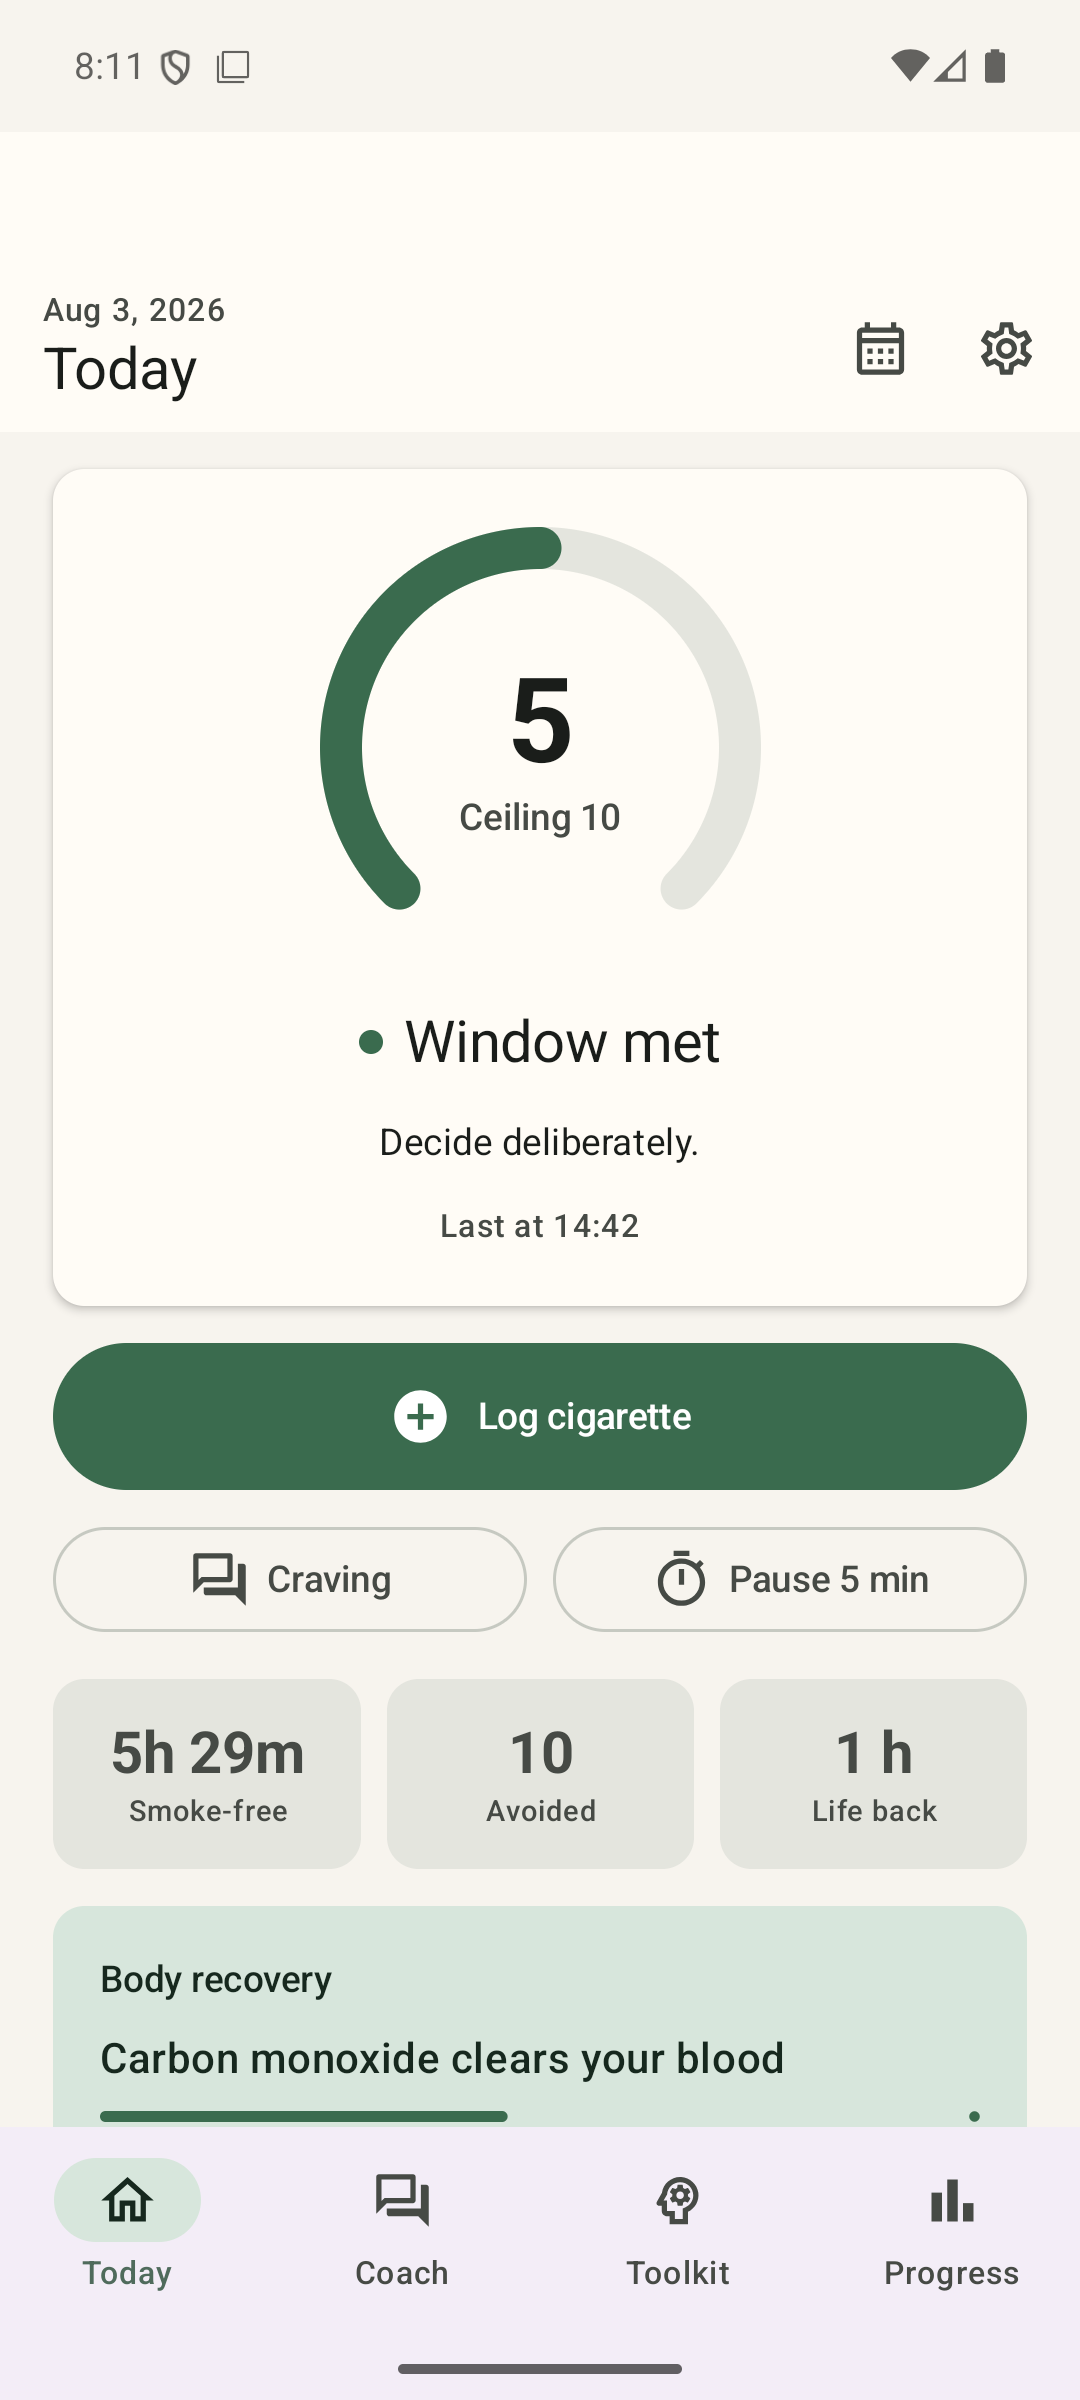
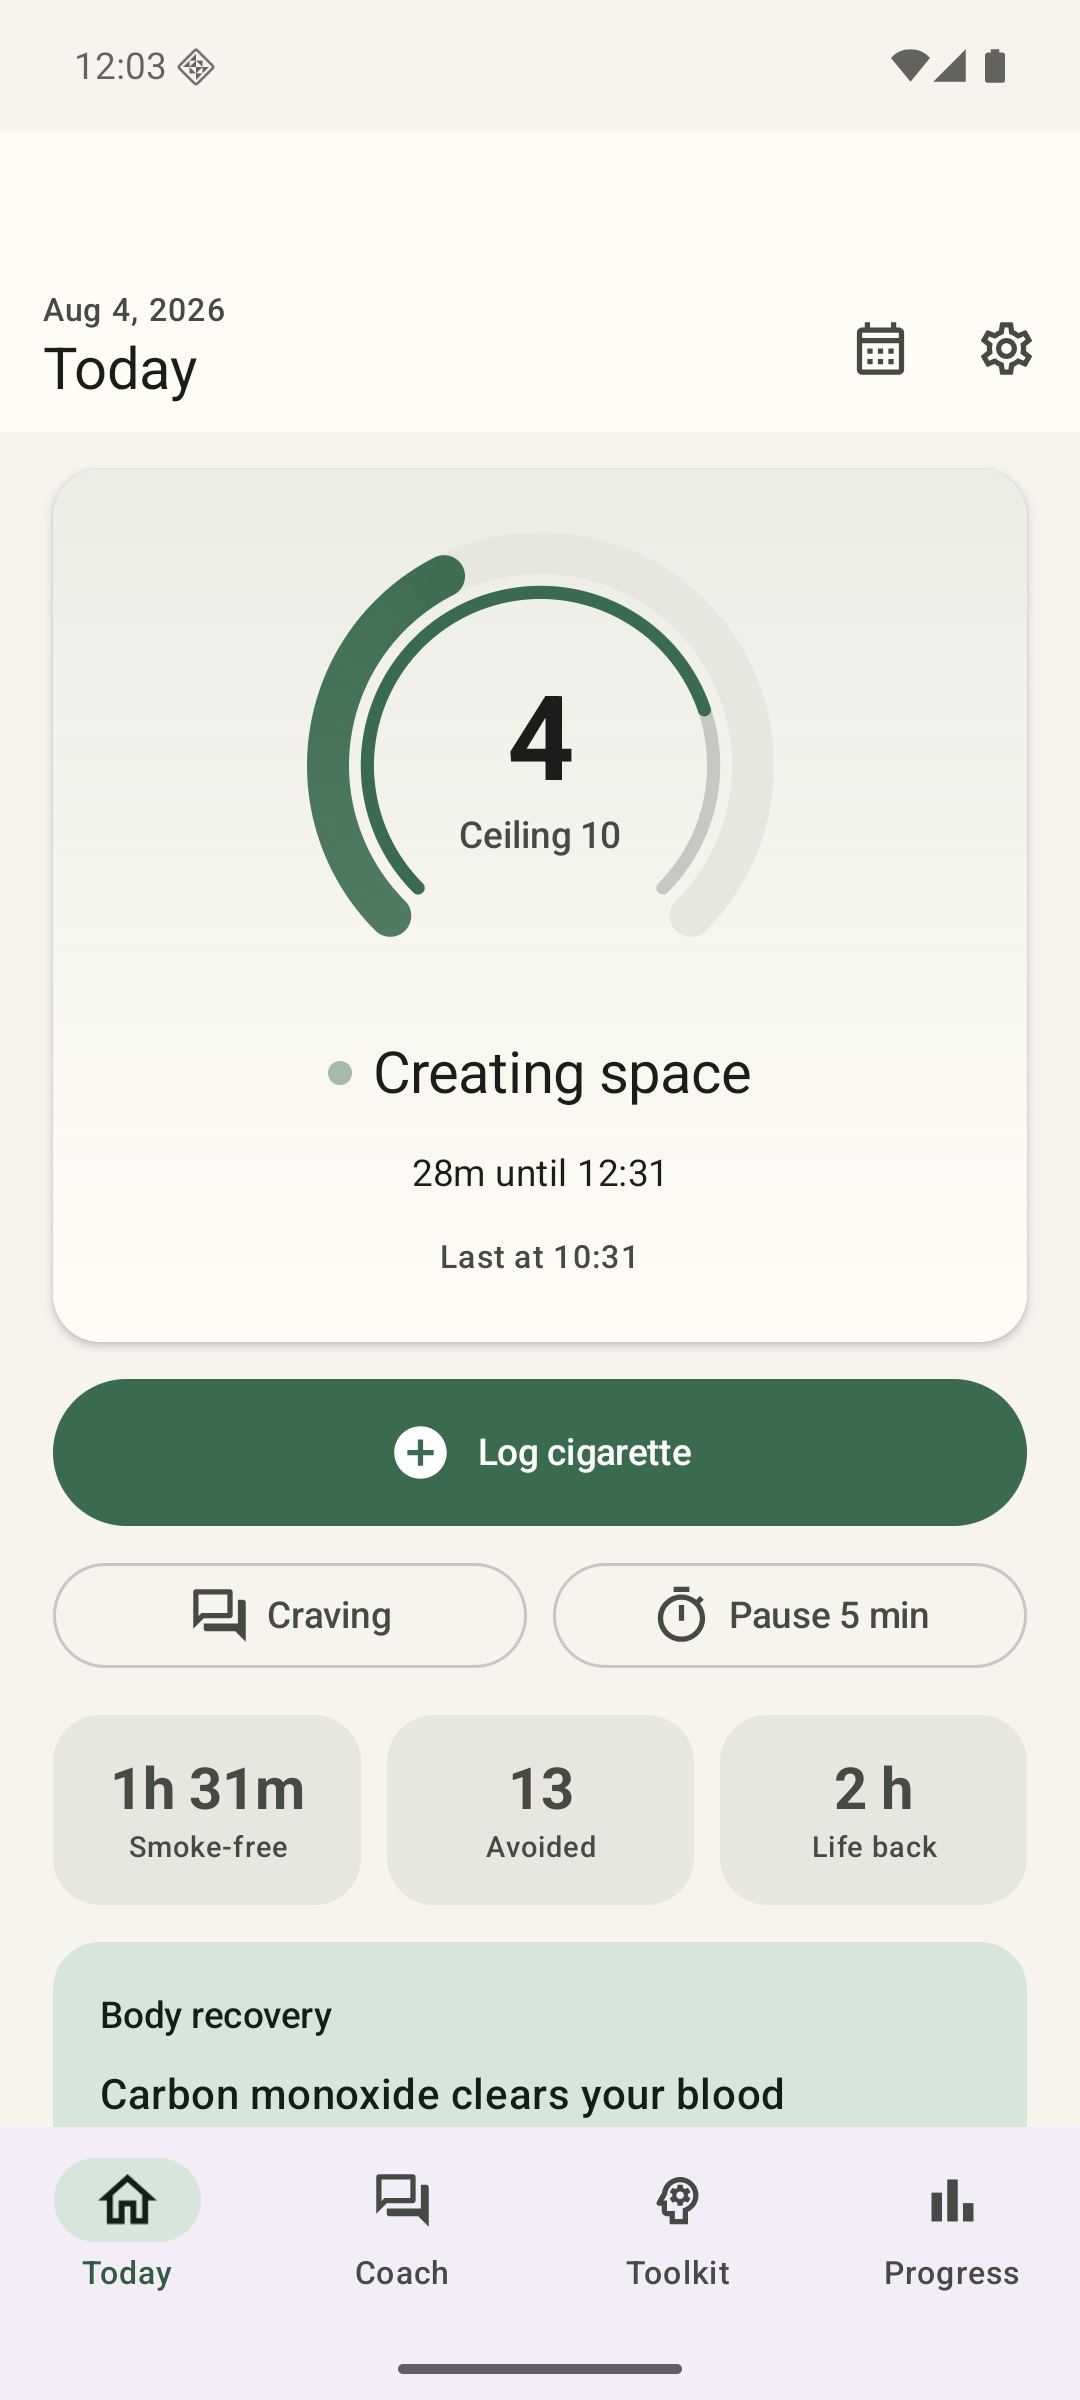
Refresh the screenshots and document what is now settable
Every shot was taken against the new build, so the README stops showing a
single fixed green card and a ring that only tracked the ceiling.

Adds one new frame for the widget and motion panel, which is where most of
this release lives, and rewrites the widget section: it no longer claims a
second-by-second countdown, and it says what the animated indicator is and
what the refresh cadence costs.

diff --git a/README.md b/README.md
@@ -112,12 +112,33 @@ no AI key.
 ### A widget worth keeping
 
 Time until your next window as the headline figure, today's count against the ceiling, a proportional
-ceiling meter, clean-stretch and money pills, your badge count, a line that refreshes hourly, and icon-only
-log/undo actions. It re-renders exactly when a window ends, so the countdown is never stale.
+ceiling meter, clean-stretch and money pills, your badge count, a line that refreshes hourly, and Talk and
+Log actions. It re-renders exactly when a window ends, so the countdown never outlives the wait.
+
+Under the meter runs an indeterminate progress bar — the one thing on a home-screen widget that genuinely
+moves, animated by the system with no app process running, so a widget mid-wait never looks frozen. The
+remaining time itself is stated in whole minutes and recalculated on a cadence you choose: every minute,
+every ten, or never. Refreshing stops the moment your window opens and never runs through an overnight rest
+window.
 
 | Badges | Home-screen widget |
 | --- | --- |
 | ![Badges](docs/screenshots/09-badges.png) | ![Widget](docs/screenshots/10-widget.png) |
+
+### Make it yours
+
+Five accent families — Sage, Ocean, Ember, Violet, Slate — carried through the app *and* the widget, plus
+Material You if you would rather follow your wallpaper, and a true-black dark mode for OLED screens.
+
+**Motion** is a first-class setting rather than an afterthought. Full adds drifting gradients, breathing
+rings and rolling counters; Subtle keeps the transitions and drops the decoration; None cuts straight to
+each state. Turning animations off system-wide always wins, so nobody has to find this screen twice.
+
+The widget gets its own panel: surface style, corner rounding, opacity, every row it draws, whether logging
+takes one tap or two, and the refresh cadence. Each change lands on the home screen as you make it, and a
+working miniature sits above the controls — a widget is the one surface you cannot see while configuring it.
+
+![Widget and motion settings](docs/screenshots/14-widget-settings.png)
 
 ---
 
